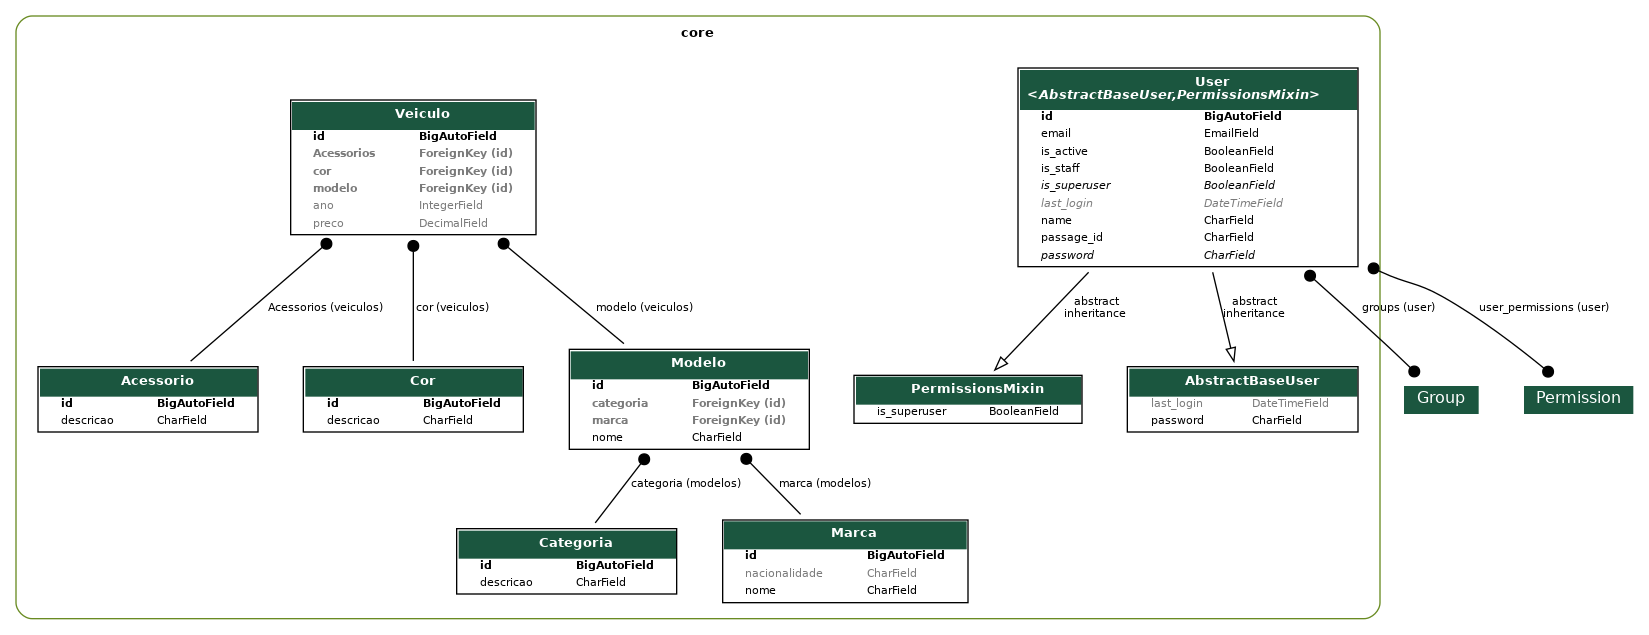
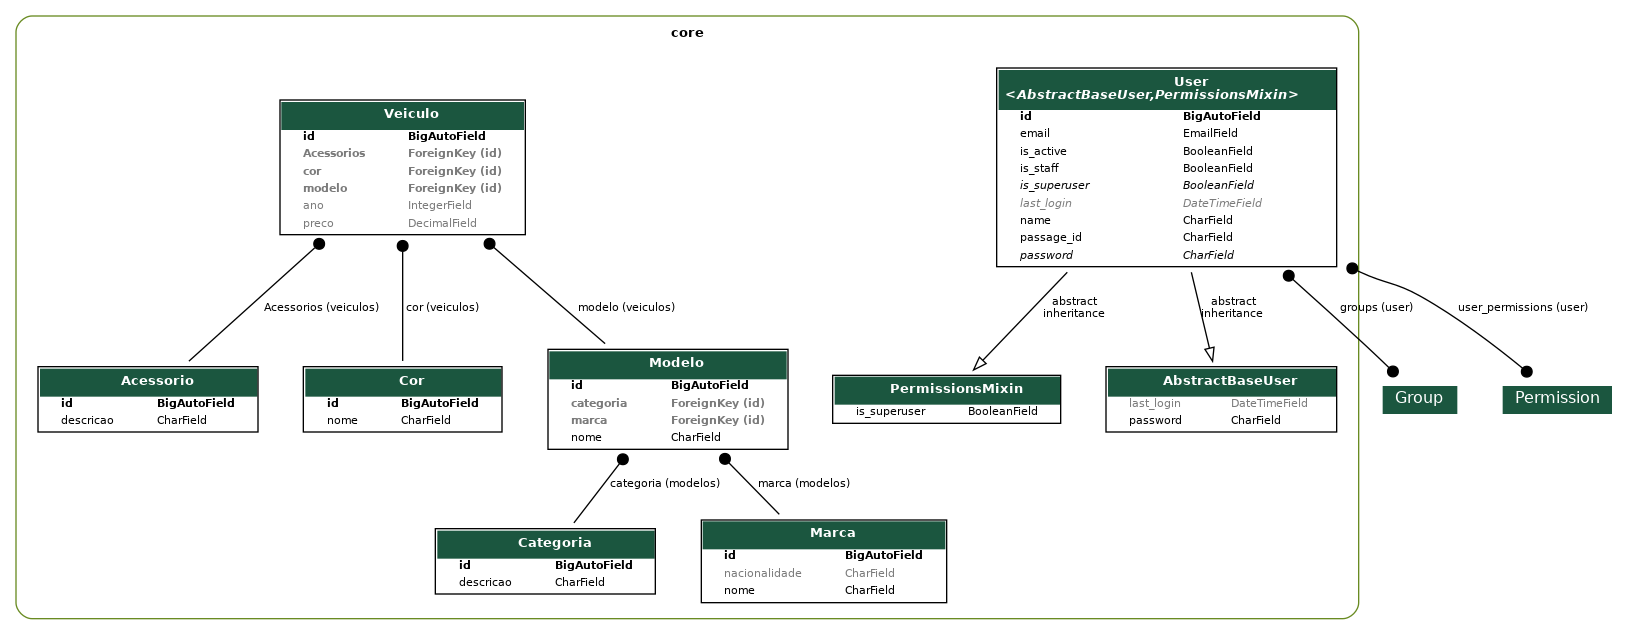
alterações

diff --git a/core/migrations/0009_rename_descricao_cor_nome.py b/core/migrations/0009_rename_descricao_cor_nome.py
@@ -1,0 +1,18 @@
+# Generated by Django 5.0.6 on 2024-07-09 11:35
+
+from django.db import migrations
+
+
+class Migration(migrations.Migration):
+
+    dependencies = [
+        ("core", "0008_alter_cor_options_veiculo"),
+    ]
+
+    operations = [
+        migrations.RenameField(
+            model_name="cor",
+            old_name="descricao",
+            new_name="nome",
+        ),
+    ]

diff --git a/core/models/cor.py b/core/models/cor.py
@@ -2,10 +2,10 @@ from django.db import models
 
 
 class Cor(models.Model):
-    descricao = models.CharField(max_length=100)
+    nome = models.CharField(max_length=100)
 
     def __str__(self): 
-        return f"{self.descricao} ({self.id})"
+        return f"{self.nome} ({self.id})"
     
     class Meta:
       verbose_name = "Cor"
